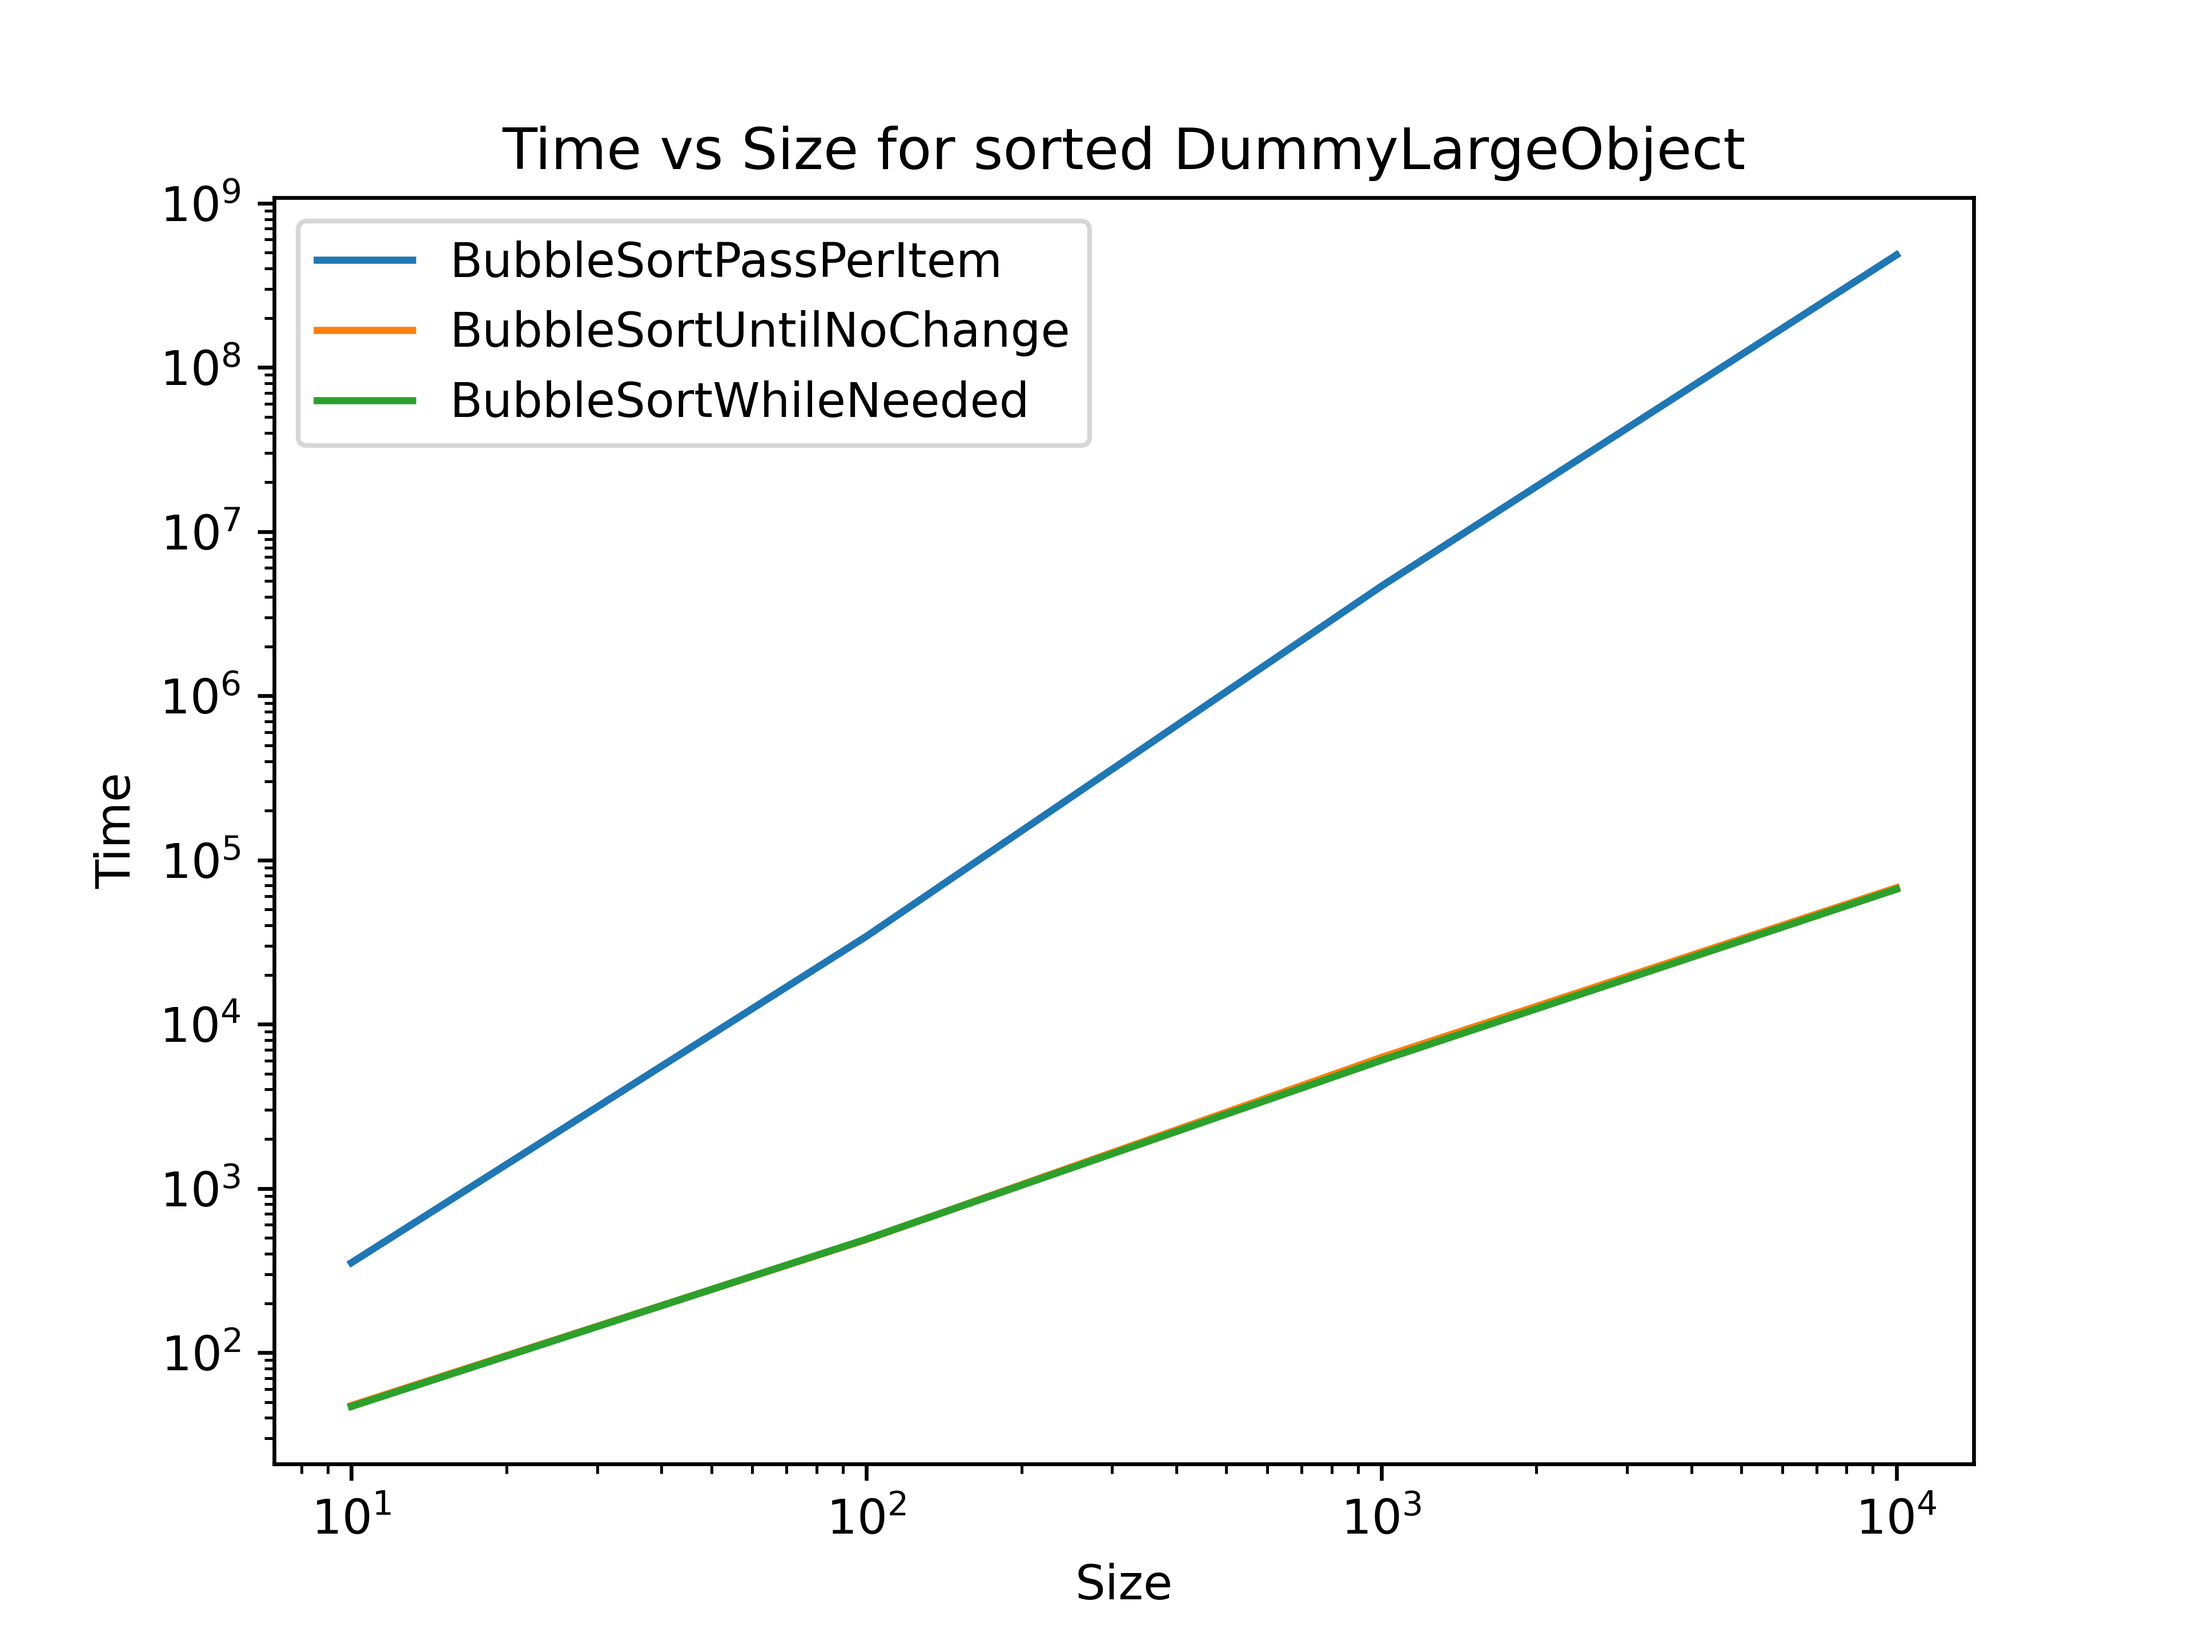
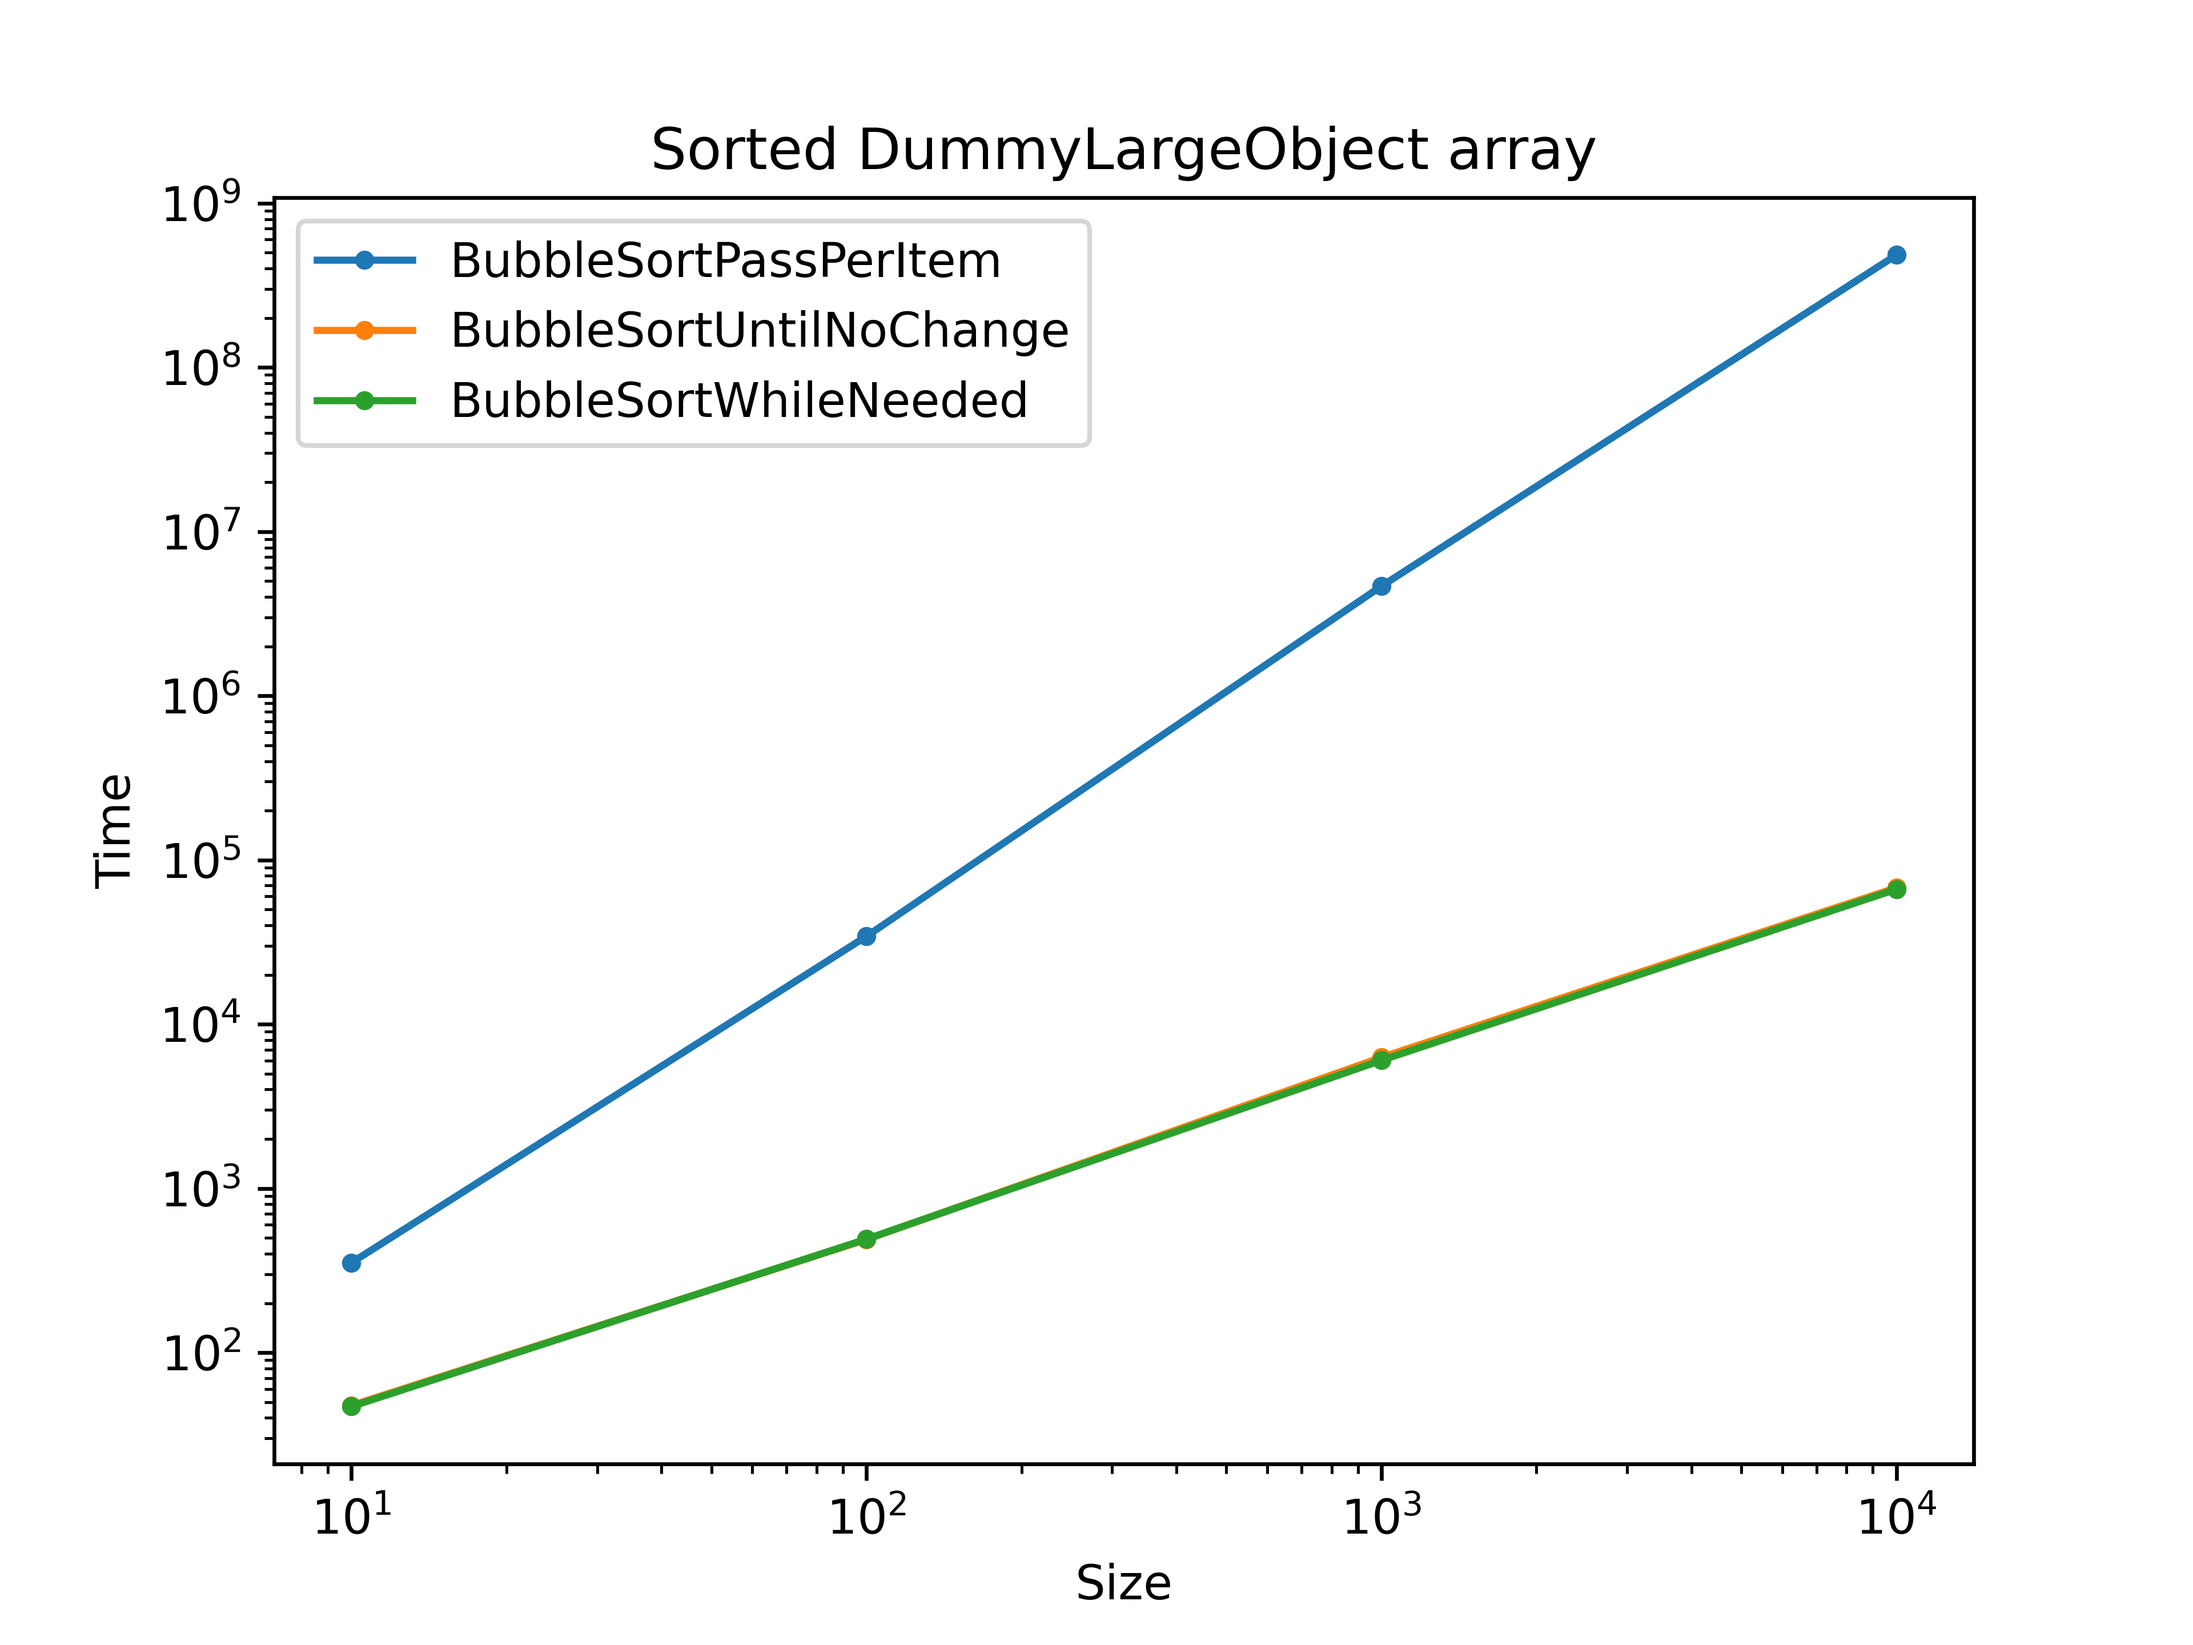
improved plotting, added statistics

Changed region(s): [[0.2188, 0.0625, 0.7812, 0.125]]

diff --git a/Assignment1/plotting/plot.py b/Assignment1/plotting/plot.py
@@ -1,10 +1,51 @@
 import sys
+import os
 import pandas as pd
 import matplotlib.pyplot as plt
 
+# get the path to this file
+path = os.path.dirname(os.path.realpath(__file__))
 
 # read the path from the arguments or use the default path
 PATH = sys.argv[1] if len(sys.argv) > 1 else 'Assignment1/results.csv'
+OUT_CSV = sys.argv[2] if len(sys.argv) > 2 else f'{path}/output.csv'
+PATH_TO_PLOTS = sys.argv[3] if len(sys.argv) > 3 else f'{path}/plots/'
+
+
+# Usefull functions to print and save the table results
+def print_table_header():
+    header = ['Ordering', 'Type', 'Algorithm', 'Min', 'Max', 'First Quartile', 'Median', 'Third Quartile']
+    print('┌' + '─' * 15 + '┬' +'─' * 18 + '┬' + '─' * 24 + ('┬' + '─' * 15)*5 + '┐')
+    print('│{:15}│{:18}│{:24}│{:15}│{:15}│{:15}│{:15}│{:15}│'.format(*header))
+    print('├' + '─' * 15 + '┼' +'─' * 18 + '┼' + '─' * 24 + ('┼' + '─' * 15)*5 + '┤')
+
+def print_table_footer():
+    print('└' + '─' * 15 + '┴' +'─' * 18 + '┴' + '─' * 24 + ('┴' + '─' * 15)*5 + '┘')
+
+def print_table_row(ordering, data_type, algo_type, min, max, first_quartile, median, third_quartile):
+    print('│{:15}│{:18}│{:24}│{:15.2e}│{:15.2e}│{:15.2e}│{:15.2e}│{:15.2e}│'.format(ordering, data_type, algo_type, min, max, first_quartile, median, third_quartile))
+
+def init_csv_output():
+    # check if the file exists
+    if(os.path.exists(OUT_CSV)):
+        # if it exists, ask the user if he wants to overwrite it in red
+        print('\033[91m' + 'The file {} already exists. Do you want to overwrite it? (y/n)'.format(OUT_CSV) + '\033[0m')
+        if(input() != 'y' and input() != 'Y'):
+            # if the user doesn't want to overwrite the file, exit
+            print('Exiting...')
+            exit()
+        else:
+            # if the user wants to overwrite the file, delete it
+            os.remove(OUT_CSV)
+    
+    # create the file and write the header
+    with open(OUT_CSV, 'w') as f:
+        f.write('Ordering,Type,Algorithm,Min,Max,First Quartile,Median,Third Quartile\n')
+
+def save_csv_row(ordering, data_type, algo_type, min, max, first_quartile, median, third_quartile):
+    with open(OUT_CSV, 'a') as f:
+        f.write('{},{},{},{},{},{},{},{}\n'.format(ordering, data_type, algo_type, min, max, first_quartile, median, third_quartile))
+
 
 
 results = pd.read_csv(PATH)
@@ -13,6 +54,9 @@ array_types = results['Array'].unique()
 data_types = results['Type'].unique()
 algo_types = results['Algorithm'].unique()
 
+# print table header for the results
+init_csv_output()
+print_table_header()
 
 for array in array_types:
     for data in data_types:
@@ -20,17 +64,46 @@ for array in array_types:
 
         # plot
         for algo in algo_types:
-            plt.plot(data_to_plot[data_to_plot['Algorithm'] == algo]["Size"], data_to_plot[data_to_plot['Algorithm'] == algo]["Time"], label=algo)
-            # TODO: compute minimum, first quartile, median, third quartile, maximum
+            # plot the data with smooth lines
+            x = data_to_plot[data_to_plot['Algorithm'] == algo]["Size"]
+            y = data_to_plot[data_to_plot['Algorithm'] == algo]["Time"]
+
+            min = y.min()
+            max = y.max()
+            first_quartile = y.quantile(0.25)
+            median = y.quantile(0.5)
+            third_quartile = y.quantile(0.75)
+            # print the table row
+            print_table_row(array, data, algo, min, max, first_quartile, median, third_quartile)
+            # save the row to a csv file
+            save_csv_row(array, data, algo, min, max, first_quartile, median, third_quartile)
+
+            plt.plot(x, y, label=algo, marker='.')
         
         plt.xscale('log')
         plt.yscale('log')
 
         plt.xlabel('Size')
         plt.ylabel('Time')
-        plt.title(f'Time vs Size for {array} {data}')
+        # first character uppercase
+        array_ordering = array.capitalize()
+        if array == 'reverse':
+            array_ordering = 'Reverse sorted'
+        elif array == 'random':
+            array_ordering = 'Random generated'
+
+        plt.title(f'{array_ordering} {data} array')
         plt.legend(algo_types, fontsize=10)
-        plt.savefig(f'Assignment1/plotting/plots/{array}_{data}.png', dpi=600)
+        plt.savefig(f'{PATH_TO_PLOTS}/{array}_{data}.png', dpi=600)
+
         plt.clf()
+
+# print table footer
+print_table_footer()
+# print the path of the csv file
+print('The results are also saved in {}'.format(os.path.relpath(OUT_CSV)))
+# print the path of the plots
+print('The plots are saved in {}'.format(os.path.relpath(PATH_TO_PLOTS)))
+
 
 

diff --git a/Assignment1/BubbleSortComparator.java b/Assignment1/BubbleSortComparator.java
@@ -6,7 +6,14 @@ import java.util.Collections;
 import java.util.List;
 import java.util.Scanner;
 
-
+/**
+ * This class is used to compare the performance of the three sorting algorithms:
+ *  - BubbleSortPassPerItem;
+ *  - BubbleSortUntilNoChange;
+ *  - BubbleSortWhileNeeded.
+ * 
+ * @author Alessandro Gobbetti, Bojan Lazarevski
+ */
 public class BubbleSortComparator<T extends Comparable<T>> {
 
     // --------------------------------------------------------------------------------------------------------------------------------
@@ -391,10 +398,6 @@ public class BubbleSortComparator<T extends Comparable<T>> {
     // LOGGING
     // --------------------------------------------------------------------------------------------------------------------------------
 
-    private void printAsCSV(final String sortingAlgo, final String type, final String arr, final int arraySize, final double time) {
-        System.out.println(sortingAlgo + "," + type + "," + arr + "," + arraySize + "," + time);
-    }
-
     /**
      * The method logs the results of the sorting algorithm to a CSV file.
      * @param file the name of the CSV file to save the results.
@@ -423,7 +426,10 @@ public class BubbleSortComparator<T extends Comparable<T>> {
         }
     }
 
-
+    /**
+     * The method initializes the CSV file with the header.
+     * @param file the name of the CSV file to save the results.
+     */
     private static void initCSV(final String file) {
         // check if file exists and it is not empty
         File f = new File(file);

diff --git a/Assignment1/DummyLargeObject.java b/Assignment1/DummyLargeObject.java
@@ -1,9 +1,18 @@
 import java.util.List;
 
+/**
+ * A dummy large object. This object is usless, but it is large enough to be used to 
+ * test the performance of a sorting algorithm with large objects.
+ */
 public class DummyLargeObject implements Comparable<DummyLargeObject>{
     private int value;
     private List<String> strings;
     
+    /**
+     * Creates a new dummy large object.
+     * @param value The value of the object.
+     * @param strings The list of strings of the object.
+     */
     public DummyLargeObject(int value, List<String> strings) {
         this.value = value;
         this.strings = strings;

diff --git a/Assignment1/DummySmallObject.java b/Assignment1/DummySmallObject.java
@@ -1,16 +1,16 @@
+/**
+ * A dummy small object. This object is usless, but it is small enough to be used to 
+ * test the performance of a sorting algorithm with small objects.
+ */ 
 public class DummySmallObject implements Comparable<DummySmallObject> {
 
     private int value;
     
+    /**
+     * Creates a new dummy small object.
+     * @param value The value of the object.
+     */
     public DummySmallObject(int value) {
-        this.value = value;
-    }
-
-    
-    public int getValue() {
-        return value;
-    }
-    public void setValue(int value) {
         this.value = value;
     }
     
